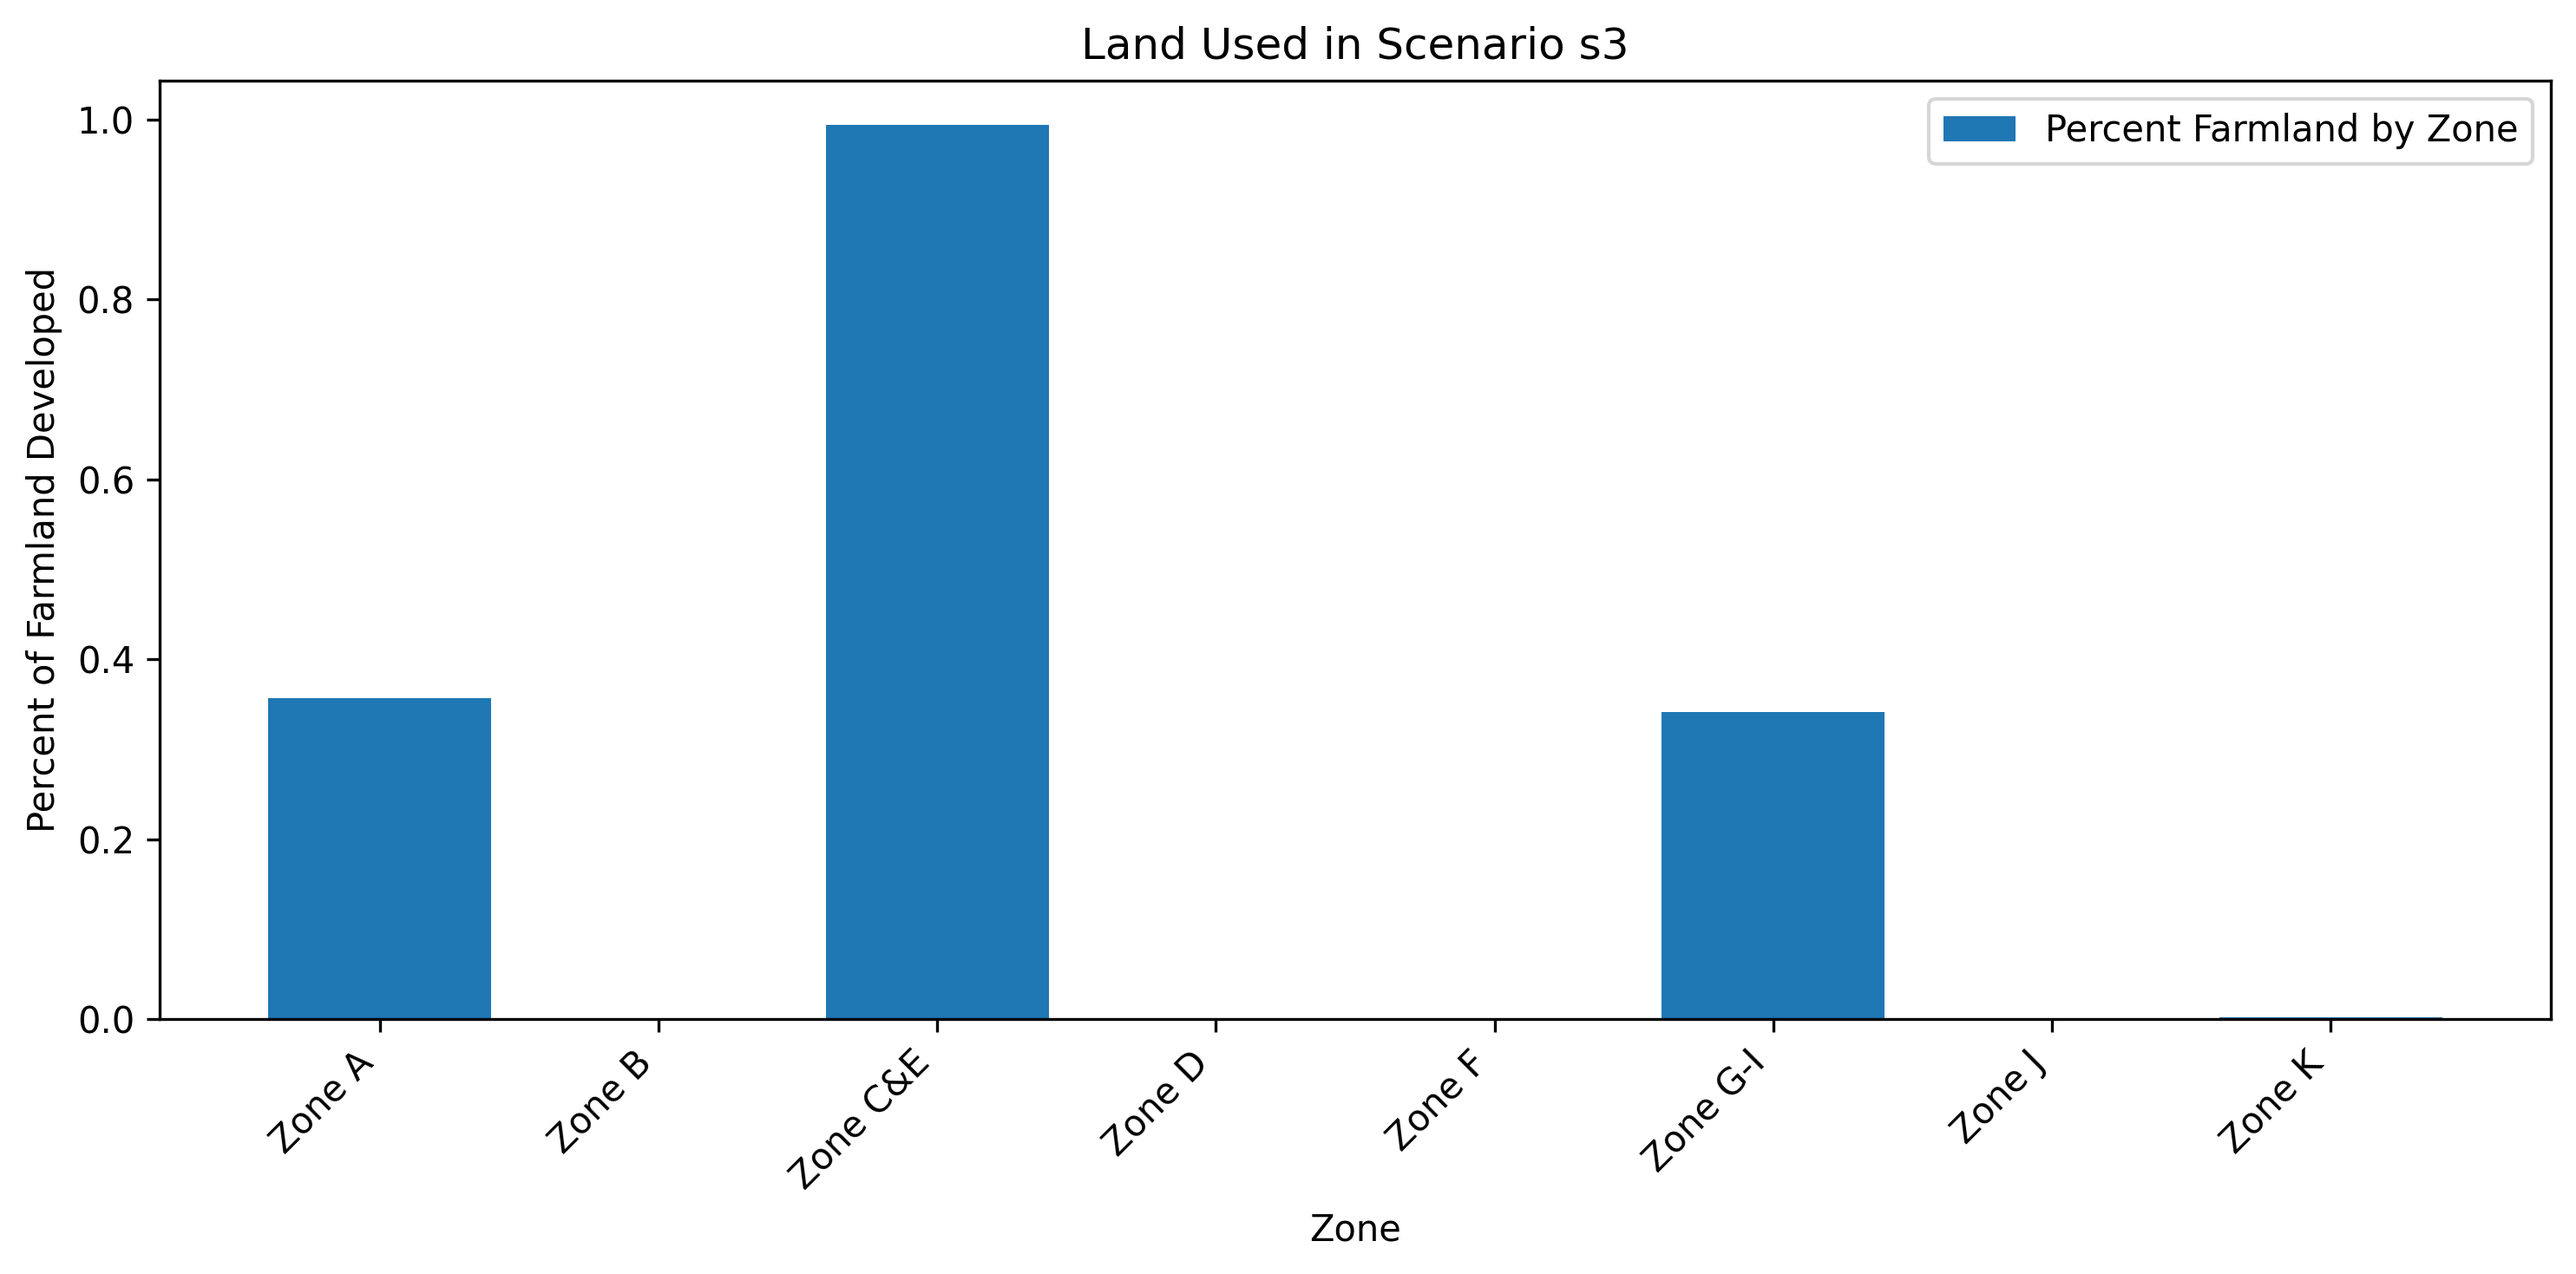
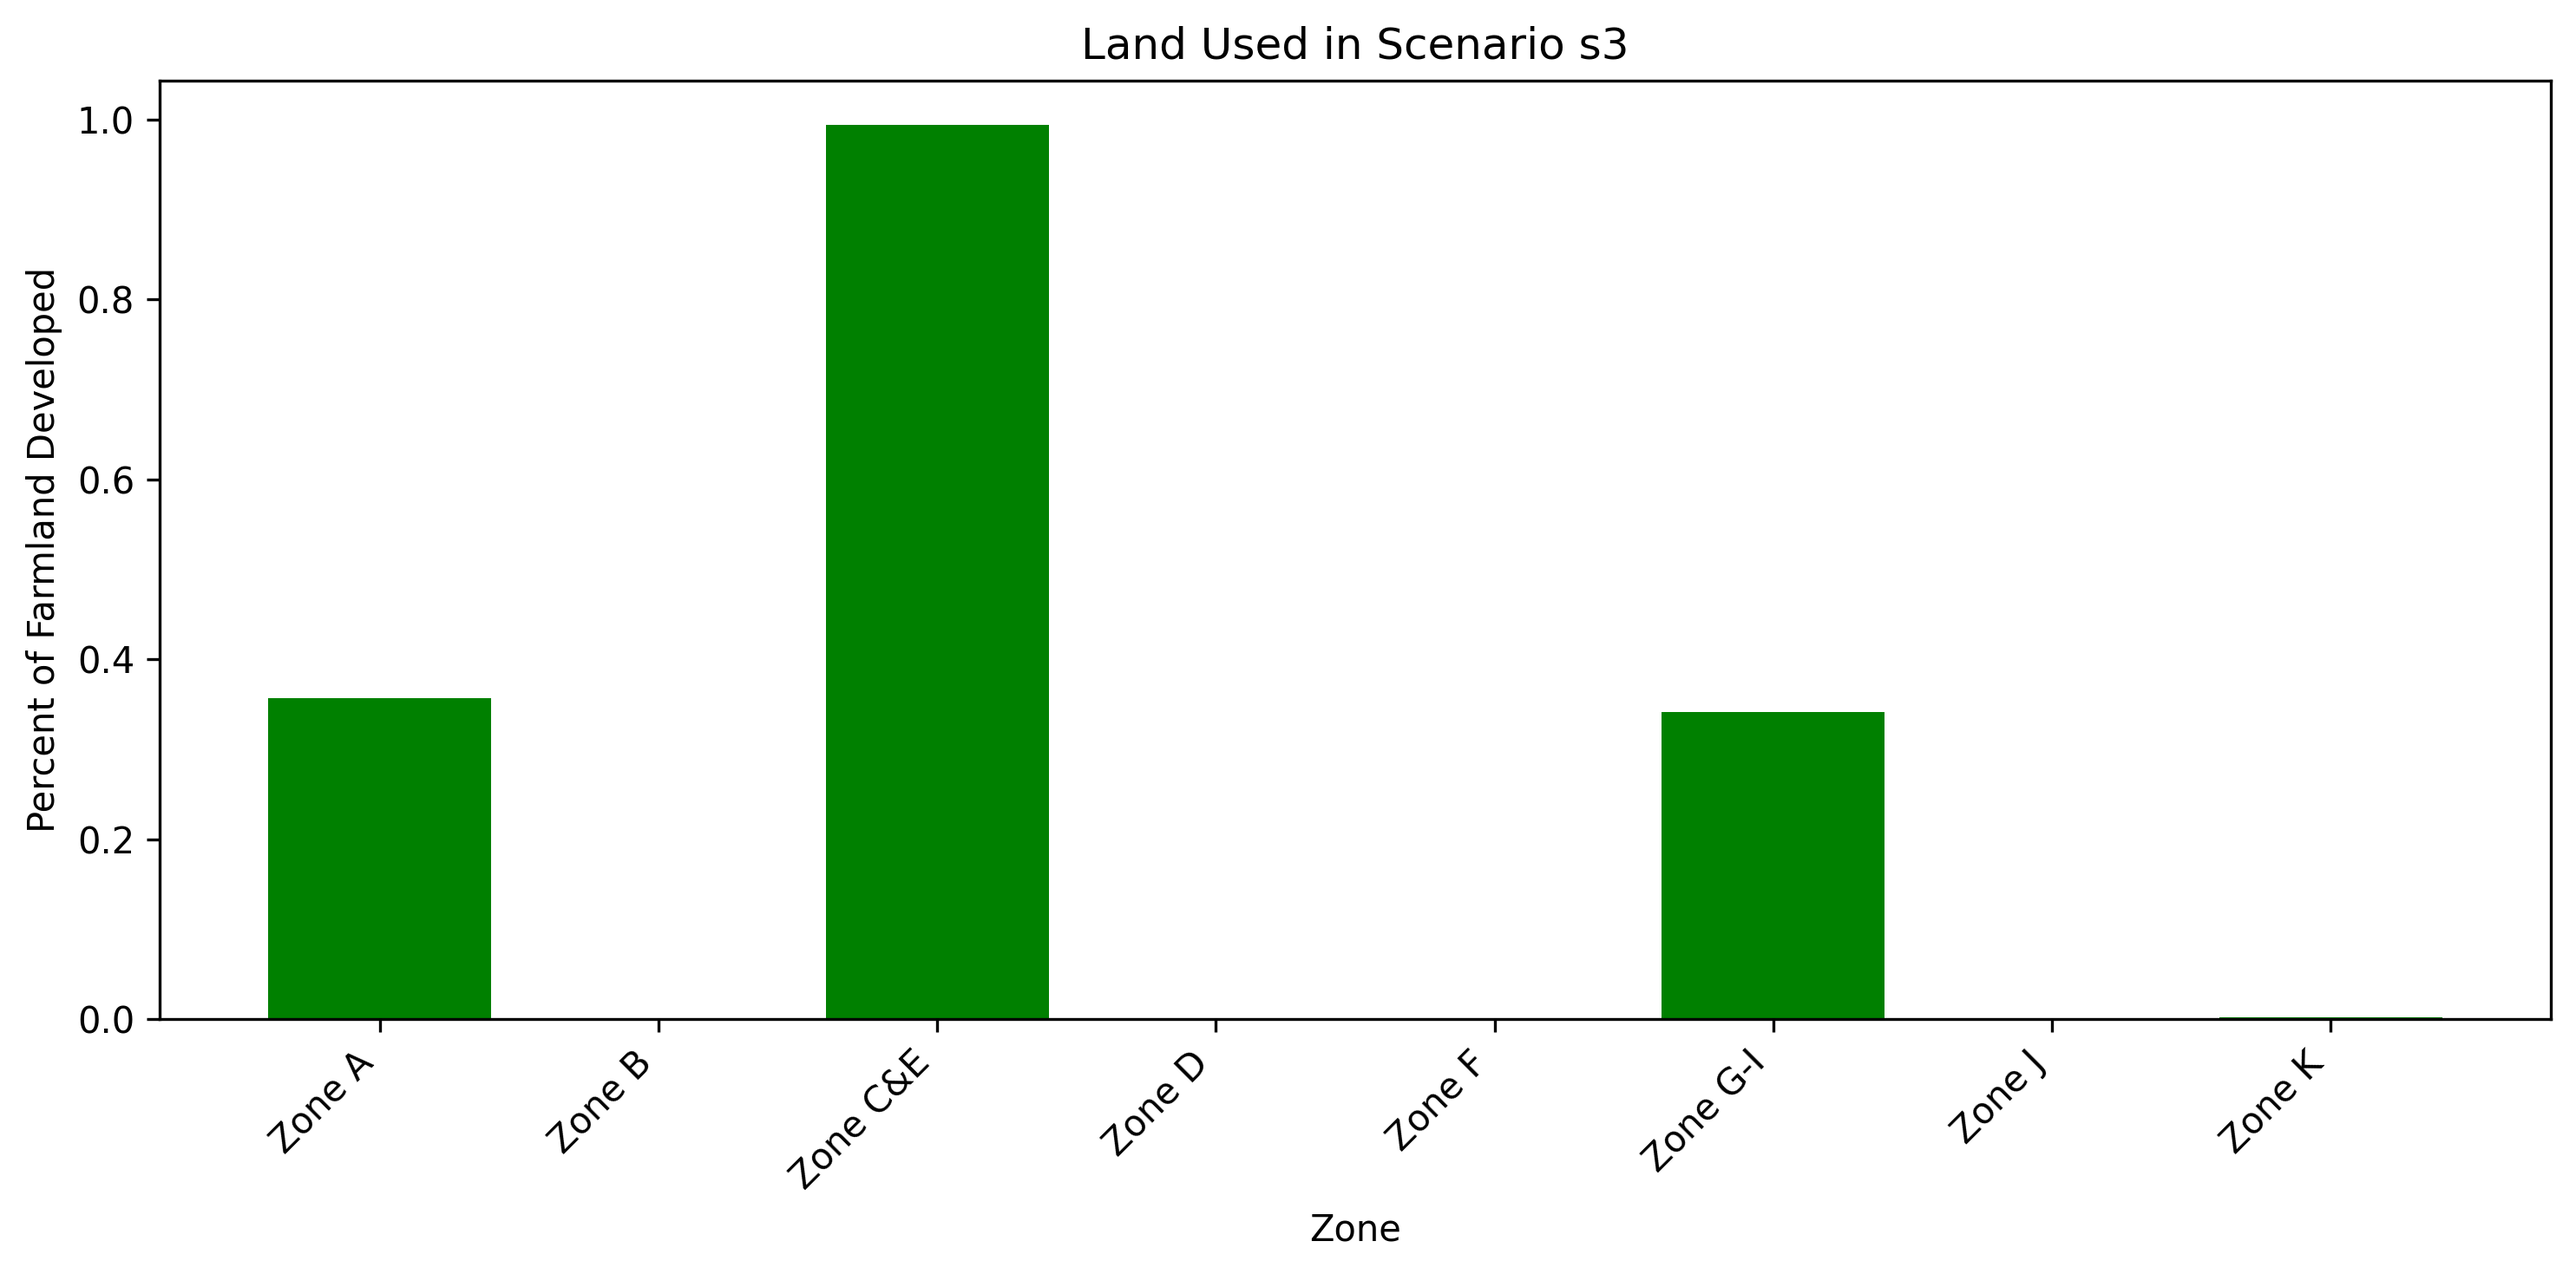
land use updates

diff --git a/Land Analysis/Land Use Analysis.py b/Land Analysis/Land Use Analysis.py
@@ -2,6 +2,7 @@
 
 import pandas as pd
 import matplotlib.pyplot as plt
+import numpy as np
 
 s1_path_2030 = 'NYS-Land-Use/output/202512092100-PG-2030-B/s1/results/capacity.csv'
 s2_path = 'NYS-Land-Use/output/202512092100-PG-2030-B/s2/results/capacity.csv'
@@ -92,46 +93,71 @@ def land_use_analysis(capacity_dataframe, agvol_share, zones, zone_labels, scena
     print()
 
     percents_by_zone = []
+    capacity_by_zone = []   # <-- NEW
 
     for i in range(len(zones)):
         zone = zones[i]
 
-        # capacity needed for this zone
         mw_needed = capacity_dataframe.loc[
             capacity_dataframe["Zone"] == zone, "NewCap"
         ].sum()
 
-        print(f"MW Needed in Zone {zone}: {mw_needed}")
+        capacity_by_zone.append(mw_needed)   # <-- NEW
 
-        # land needed for this zone
         land_needed = (
             mw_needed * (1 - agvol_share) * solar_density +
             mw_needed * agvol_share * agvol_density
         )
 
-        print(f"Land Needed in Zone {zone}: {land_needed}")
-
         percent_farm_used = land_needed / farmland[i]
-        print(f"Percent of Farmland Used in Zone {zone}: {percent_farm_used}")
-        print("------------------------------------------")
         percents_by_zone.append(percent_farm_used)
 
-    
-    plt.figure(figsize=(10,5))
-
-    plt.bar(zones, percents_by_zone, label="Percent Farmland by Zone")
+    # --------- Plot 1: Percent Farmland Used ---------
+    plt.figure(figsize=(10, 5))
+    plt.bar(zones, percents_by_zone, color='green')
     plt.xticks(ticks=zones, labels=zone_labels, rotation=45, ha="right")
     plt.xlabel("Zone")
     plt.ylabel("Percent of Farmland Developed")
     plt.title(f"Land Used in Scenario {scenario_name}")
-    plt.legend()
     plt.tight_layout()
 
-    save_path = f"NYS-Land-Use/Land Analysis/Figures/land_use_{scenario_name}.png"   # <-- update this
-    plt.savefig(save_path, dpi=300, bbox_inches="tight")
-    #print(f"Figure saved to: {save_path}")
+    plt.savefig(
+        f"NYS-Land-Use/Land Analysis/Figures/land_use_{scenario_name}.png",
+        dpi=300,
+        bbox_inches="tight"
+    )
+    plt.close()
 
-    #plt.show()
+    # --------- Plot 2: Solar Capacity Needed ---------
+    plt.figure(figsize=(10, 5))
+    plt.bar(zones, capacity_by_zone, color='green')
+    plt.xticks(ticks=zones, labels=zone_labels, rotation=45, ha="right")
+    plt.xlabel("Zone")
+    plt.ylabel("Solar Capacity Needed (MW)")
+    plt.title(f"Solar Capacity by Zone – Scenario {scenario_name}")
+    plt.ylim(0, 24000)
+    plt.tight_layout()
+
+    plt.savefig(
+        f"NYS-Land-Use/Land Analysis/Figures/solar_capacity_{scenario_name}.png",
+        dpi=300,
+        bbox_inches="tight"
+    )
+    plt.close()
+
+def capacity_grouped_by_zone(capacity_dataframe, zones):
+    capacity_by_zone = []
+
+    for i in range(len(zones)):
+        zone = zones[i]
+
+        mw_needed = capacity_dataframe.loc[
+            capacity_dataframe["Zone"] == zone, "NewCap"
+        ].sum()
+
+        capacity_by_zone.append(mw_needed)
+
+    return capacity_by_zone
 
 
 # How much land for each scenario
@@ -151,12 +177,14 @@ zone_labels = ['Zone A', 'Zone B', 'Zone C&E', 'Zone D', 'Zone F', 'Zone G-I', '
 pathnames = [s1_path_2030, s2_path, s3_path, s1_path_2040, s4_path, s5_path, s6_path, s7_path]
 scenario_names = ['s1 2030', 's2', 's3', 's1 2040', 's4', 's5', 's6', 's7']
 land = []
+cap_by_zone = pd.DataFrame()
 
 for i in range(len(pathnames)):
     solar_df = get_solar_dataframe(pathnames[i])
     land_use_analysis(solar_df, agvol_share, zones, zone_labels, scenario_names[i])
     land_add = land_per_scenario(solar_df, solar_density)
     land.append(land_add)
+    cap_by_zone[f"{scenario_names[i]}"] = capacity_grouped_by_zone(solar_df, zones)
 
 print(land)
 
@@ -174,3 +202,130 @@ plt.tight_layout()
 
 save_path = "NYS-Land-Use/Land Analysis/Capacity Figures/Total_land_by_scenario.png"
 plt.savefig(save_path, dpi=300, bbox_inches="tight")
+
+
+###### Plot capacity by zone for each scenario ######
+
+bar_width = 0.10
+x = np.arange(len(zones))
+
+plt.figure(figsize=(14, 6))
+
+for i, scenario in enumerate(cap_by_zone.columns):
+    plt.bar(
+        x + i * bar_width,
+        cap_by_zone[scenario],
+        width=bar_width,
+        label=scenario
+    )
+
+# Center x-ticks
+plt.xticks(
+    x + bar_width * (len(cap_by_zone.columns) - 1) / 2,
+    zone_labels,
+    rotation=45,
+    ha="right"
+)
+
+plt.xlabel("Zone")
+plt.ylabel("Solar Capacity Needed (MW)")
+plt.title("Solar Capacity by Zone and Scenario")
+plt.ylim(0, 24000)
+plt.legend(title="Scenario", ncol=2)
+plt.tight_layout()
+
+save_path = "NYS-Land-Use/Land Analysis/Capacity Figures/solar_capacity_grouped_by_zone.png"
+plt.savefig(save_path, dpi=300, bbox_inches="tight")
+
+
+# ------- Table 1: Land Use Summary by Scenario -------
+agland_share = 0.5 # land that is agricultural
+agvol_share = 0.5 # percent of agricultural land that is used as agvol land
+
+
+# print(table_1)
+land_needed = []
+ag_land_needed = []
+agvol_land_needed = []
+number_of_farms = []
+
+for i in range(len(pathnames)):
+    solar_df = get_solar_dataframe(pathnames[i])
+
+    # capacity already handled
+    cap_by_zone[f"{scenario_names[i]}"] = capacity_grouped_by_zone(solar_df, zones)
+
+    total_capacity = solar_df["NewCap"].sum()
+
+    land_needed.append(
+        total_capacity * solar_density * (1 - agland_share)
+    )
+
+    ag_land_needed.append(
+        total_capacity * solar_density * (1 - agland_share) * (1 - agvol_share)
+    )
+
+    agvol_land_needed.append(
+        total_capacity * agvol_density * agland_share * agvol_share
+    )
+
+    number_of_farms.append(
+        (total_capacity * agvol_density * agvol_share) / 78
+    )
+
+
+number_of_farms = [5849, 2879, 7161+6632, 560, 4846, 2006+108, 52, 607]
+med_farm_size_per_zone = [64.375, 68.75, 84.5+102.8181818, 69.5, 73.90909091, 46.33333333+16, 0.6, 18.5]
+
+
+farm_specs = pd.DataFrame({
+    "Zones": zone_labels,
+    "Number of Farms": number_of_farms,
+    "Median Farm Size (acres)": med_farm_size_per_zone
+
+})
+
+
+def number_of_farms(capacity_by_zone, farm_size):
+    # capacity by zone is a list of capacities for each zone for a given scenario run
+    num_farms = 0
+
+    for i in range(len(capacity_by_zone)):
+        num_farms += (capacity_by_zone[i] * agvol_density * agvol_share * agland_share) / farm_size["Median Farm Size (acres)"][i]
+
+    return num_farms
+
+farms = []
+for i in range(len(pathnames)):
+    farms.append(
+        number_of_farms(
+            cap_by_zone[scenario_names[i]],
+            farm_size=farm_specs
+        )
+    )
+
+percent_of_farms = [
+    (farms[i] / 30650) * 100 for i in range(len(farms))
+]
+
+table_1 = pd.DataFrame({
+    "Scenario": scenario_names,
+    "Capacity Needed (MW)": [cap_by_zone[col].sum() for col in cap_by_zone.columns],
+    "Non-Agricultural Land Needed (acres)": land_needed,
+    "Agricultural Land Needed (acres)": ag_land_needed,
+    "Agvol Land Needed (acres)": agvol_land_needed,
+    "Number of Farms Converted to AgVol": farms,
+    "Percent of Farms Converted to AgVol (%)": percent_of_farms
+})
+
+table_1 = table_1.round(0).astype({
+    "Capacity Needed (MW)": int,
+    "Non-Agricultural Land Needed (acres)": int,
+    "Agricultural Land Needed (acres)": int,
+    "Agvol Land Needed (acres)": int,
+    "Number of Farms Converted to AgVol": int,
+    "Percent of Farms Converted to AgVol (%)": float
+})
+print(table_1)
+
+table_1.to_csv("NYS-Land-Use/Land Analysis/land_use_summary_by_scenario.csv", index=False)

diff --git a/Land Analysis/Economics.py b/Land Analysis/Economics.py
@@ -19,13 +19,24 @@ def load_data(pathname):
     df = pd.read_csv(pathname)
 
 def economic_comparison(data):
-    total_cost = data.loc["Total"]
+    total_cost = data.loc[1, "Total"]
     return total_cost
 
 for i in range(len(pathnames)):
     df = pd.read_csv(pathnames[i])
     cost = economic_comparison(df)
     print (cost)
+
+plt.figure(figsize=(10,6))
+plt.bar(scenario_names, [economic_comparison(pd.read_csv(p)) for p in pathnames], color='green')
+plt.ylabel("Total System Cost ($)")
+plt.xlabel("Scenario")
+plt.title("Total System Cost by Scenario")
+plt.xticks(rotation=45, ha="right")
+plt.tight_layout()
+save_path = "NYS-Land-Use/Land Analysis/Economics Figures/Total_cost_by_scenario.png"
+plt.savefig(save_path, dpi=300, bbox_inches="tight")
+plt.show()
 
 
 
